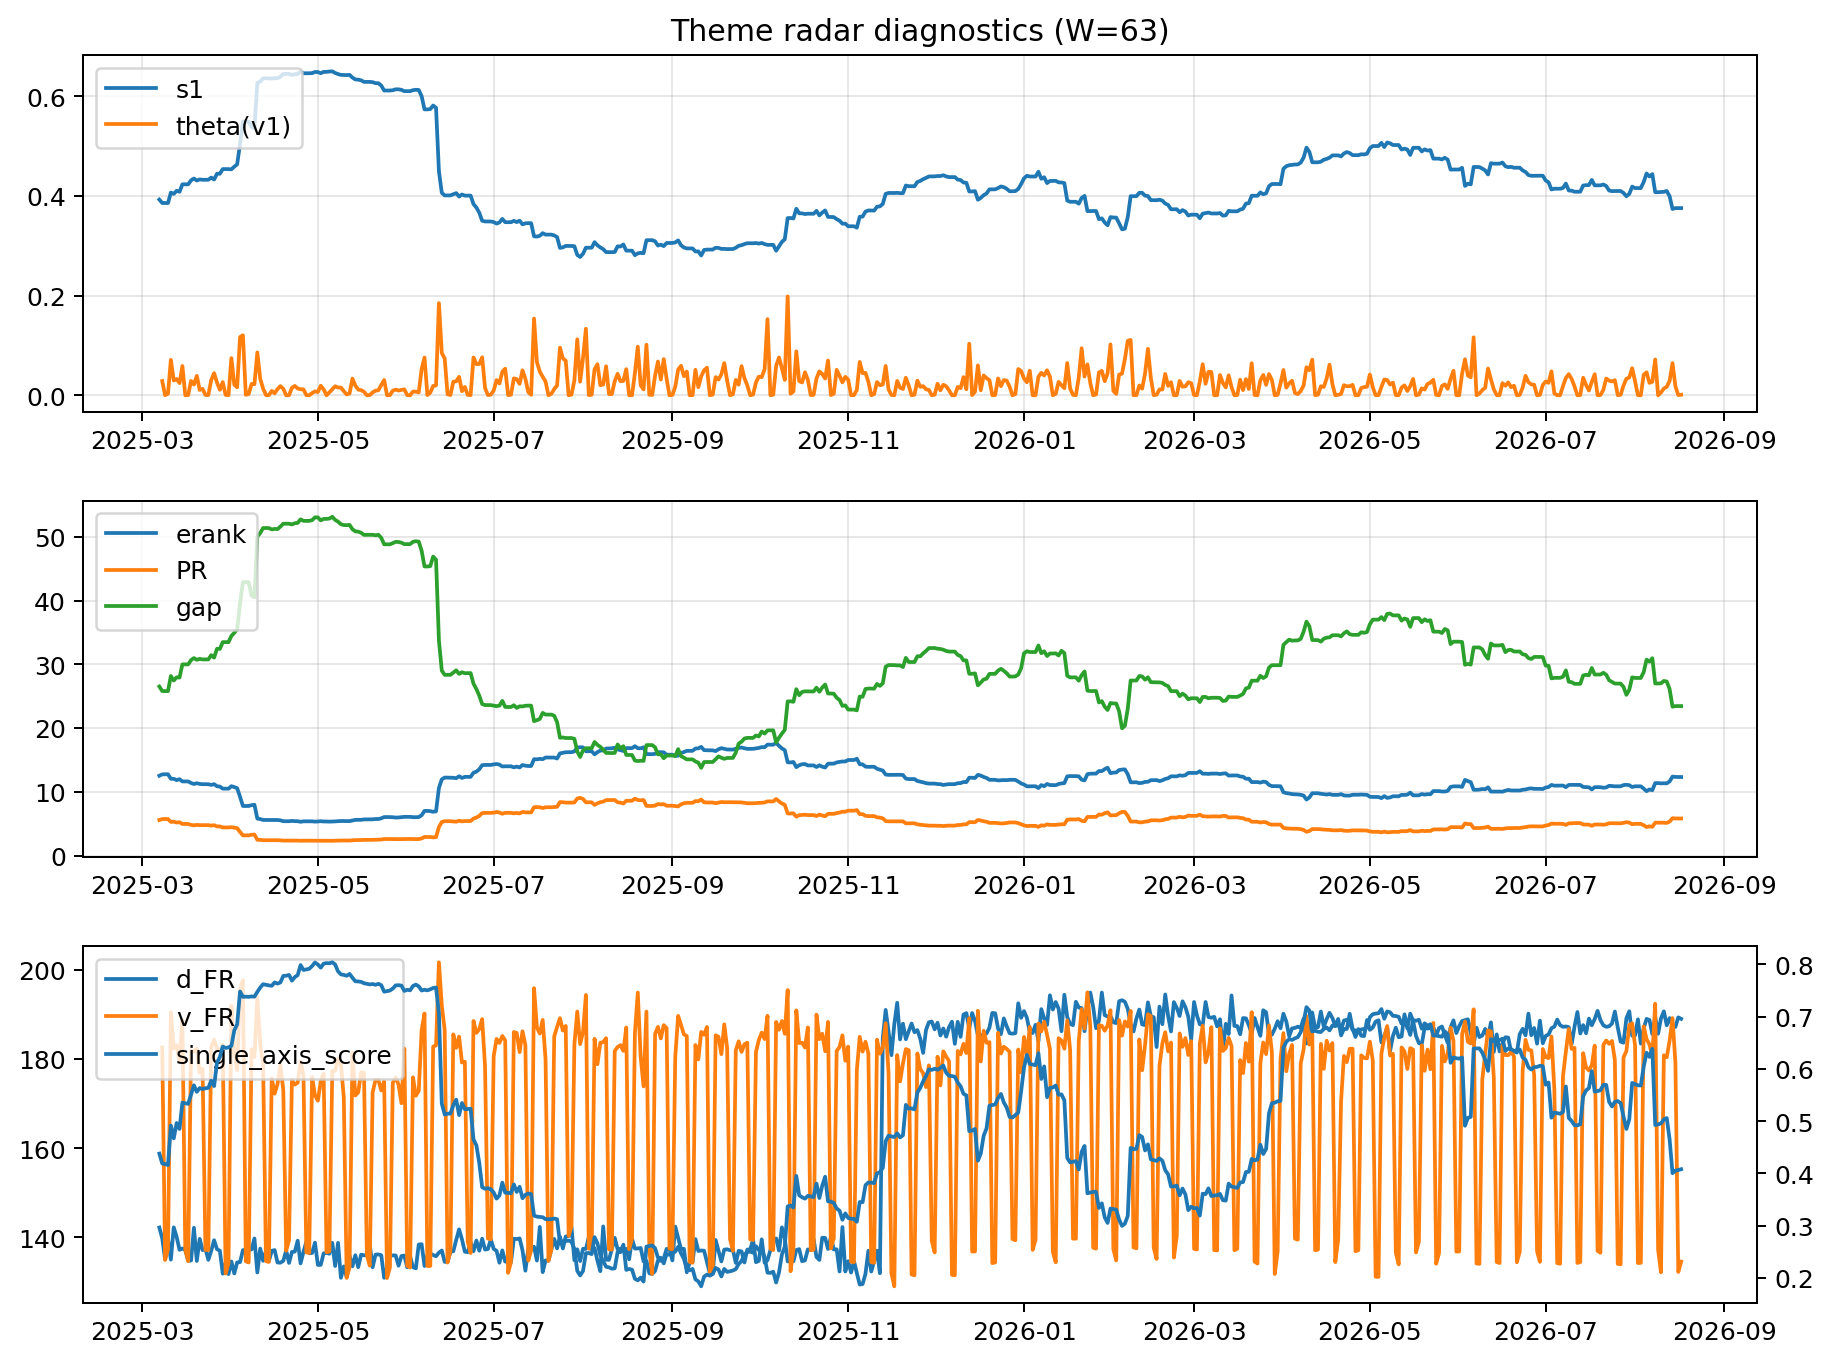
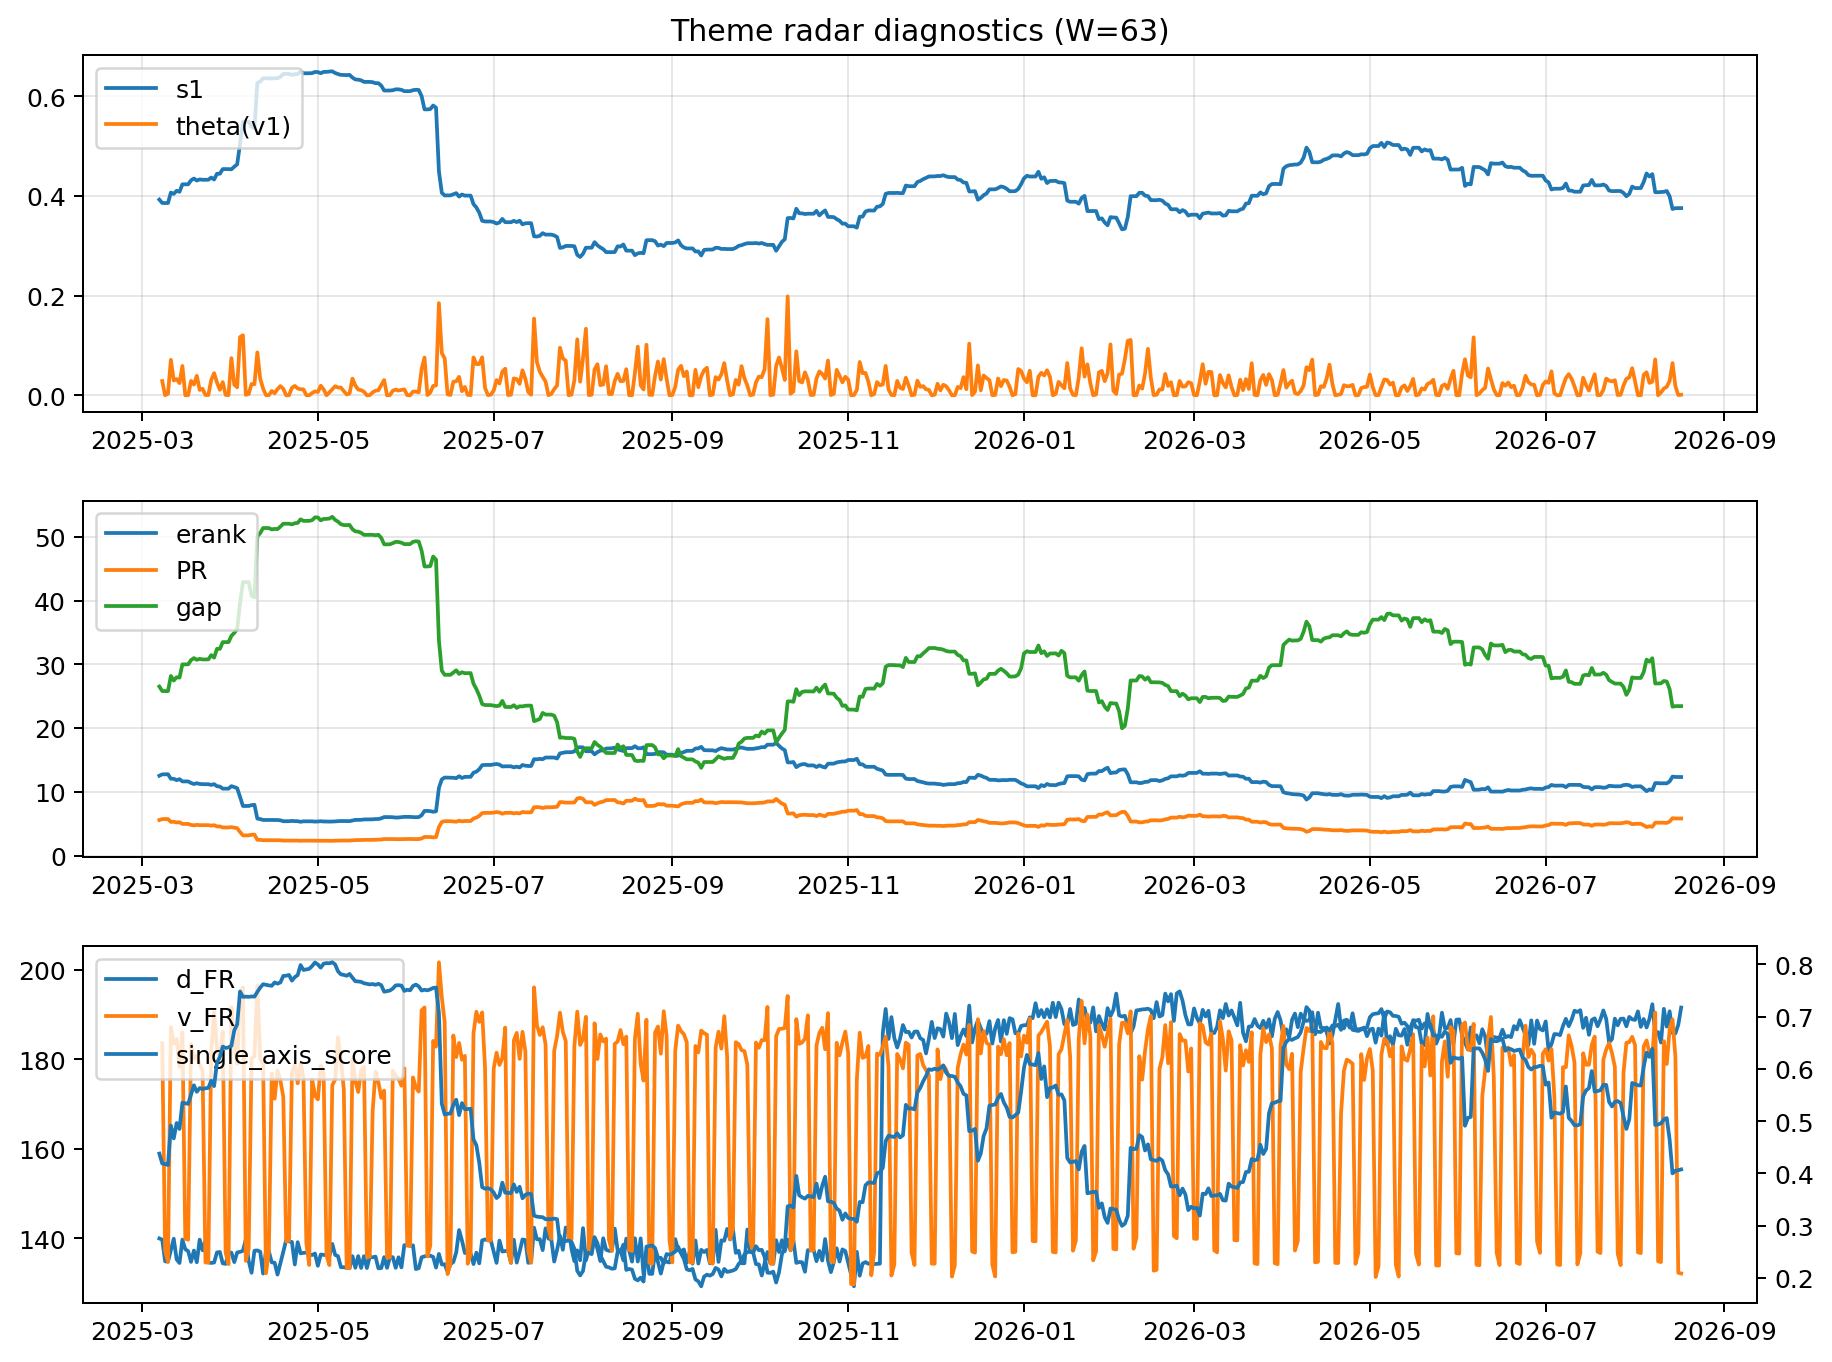
log: 2026-08-17 | sha256:82e3533950233eb92184b66fa93af9b4a298a570e86784e0d1b06bc58c092b2d

diff --git a/logs/2026-08-17.md b/logs/2026-08-17.md
@@ -3,44 +3,44 @@
 ![diagnostic W63](../assets/diagnostic/2026-08-17_W63.png)
 
 ## Leaders (v1) — W=63
-- **Nuclear_Uranium** (0.0902847756211035)
-- Semis (0.0745053733071775)
-- Quantum (0.0646151660681437)
+- **Nuclear_Uranium** (0.090293760594155)
+- Semis (0.0745059030614886)
+- Quantum (0.0646188648839702)
 
 ## Challengers — W=63
-**v2:** Rates (0.0861508263885825), Software_Cloud (0.080763125322769), Semis (0.0749928902119279)
-**v3:** Metals (0.1181602764298666), Crypto (0.0772666025942842), MegaCap_AI (0.0663428302497484)
+**v2:** Rates (0.0861171378000842), Software_Cloud (0.0807392850283009), Semis (0.0749953813031816)
+**v3:** Metals (0.1182754514866508), Crypto (0.0772484894012412), MegaCap_AI (0.0660620799512367)
 
 ## Migration (20D slope) — W=63
 **Top risers:**
-- axis_Commodities: 0.0005287845871984
-- axis_Semis: 0.000406649768483
-- axis_Quantum: 0.0003871773977502
-- axis_Grid_Power: 0.0002293408116502
-- axis_Sector_Energy: 0.000224364125084
-- axis_Sector_Health: 0.0001939541355335
-- axis_Space: 0.0001639668122607
-- axis_Genomics_Bio: 0.0001569303964881
-- axis_Robotics: 0.0001322788662403
-- axis_Nuclear_Uranium: 0.0001216476915635
+- axis_Commodities: 0.0005287868186165
+- axis_Semis: 0.0004067129960747
+- axis_Quantum: 0.0003874149377221
+- axis_Grid_Power: 0.000224882160181
+- axis_Sector_Energy: 0.000224361456402
+- axis_Sector_Health: 0.0001940015806425
+- axis_Space: 0.0001642519500073
+- axis_Genomics_Bio: 0.0001571784062149
+- axis_Robotics: 0.0001323253730125
+- axis_Nuclear_Uranium: 0.0001222016515233
 
 **Top fallers:**
-- axis_Credit: -0.000124692074953
-- axis_USD: -0.0001349956565656
-- axis_Sector_Comm: -0.0001380881713272
-- axis_Sector_Materials: -0.000139465788508
-- axis_Vol: -0.000166692712009
-- axis_MegaCap_AI: -0.0002384243007534
-- axis_Miners: -0.0002491201375283
-- axis_Crypto: -0.0002928897190065
-- axis_Rates: -0.0004427738984455
-- axis_Metals: -0.0006812797522183
+- axis_Credit: -0.0001246787886712
+- axis_USD: -0.0001349057562492
+- axis_Sector_Comm: -0.000138018836829
+- axis_Sector_Materials: -0.0001394408818714
+- axis_Vol: -0.0001666787760562
+- axis_MegaCap_AI: -0.0002383595091597
+- axis_Miners: -0.0002477808674404
+- axis_Crypto: -0.0002924878620779
+- axis_Rates: -0.0004427520548437
+- axis_Metals: -0.0006810729412151
 
 ## Risk line (W=63)
-- s1: 0.3755452035867386
-- theta_v1: 0.0011346268116687
-- v_FR: 134.51509683435444
-- single_axis_score: 0.4079395085066163
+- s1: 0.3755112127695047
+- theta_v1: 0.0011348510117435
+- v_FR: 132.1448219685012
+- single_axis_score: 0.4075614366729678
 
 ## Interpretation
 **Regime:** `theme_migration`
@@ -48,7 +48,7 @@
 - Action: Tomorrow watchlist: Commodities, Semis, Quantum, Grid_Power, Sector_Energy + v2_top1=Rates
 - Action: Hedge note: normal correlation stability.
 
-- Percentiles (W=63 history): vfr_pct=0.11, theta_pct=0.22, s1_pct=0.35, score_pct=0.36.
+- Percentiles (W=63 history): vfr_pct=0.02, theta_pct=0.22, s1_pct=0.35, score_pct=0.36.
 
 ---
[2 lines of base64/hex data omitted]
